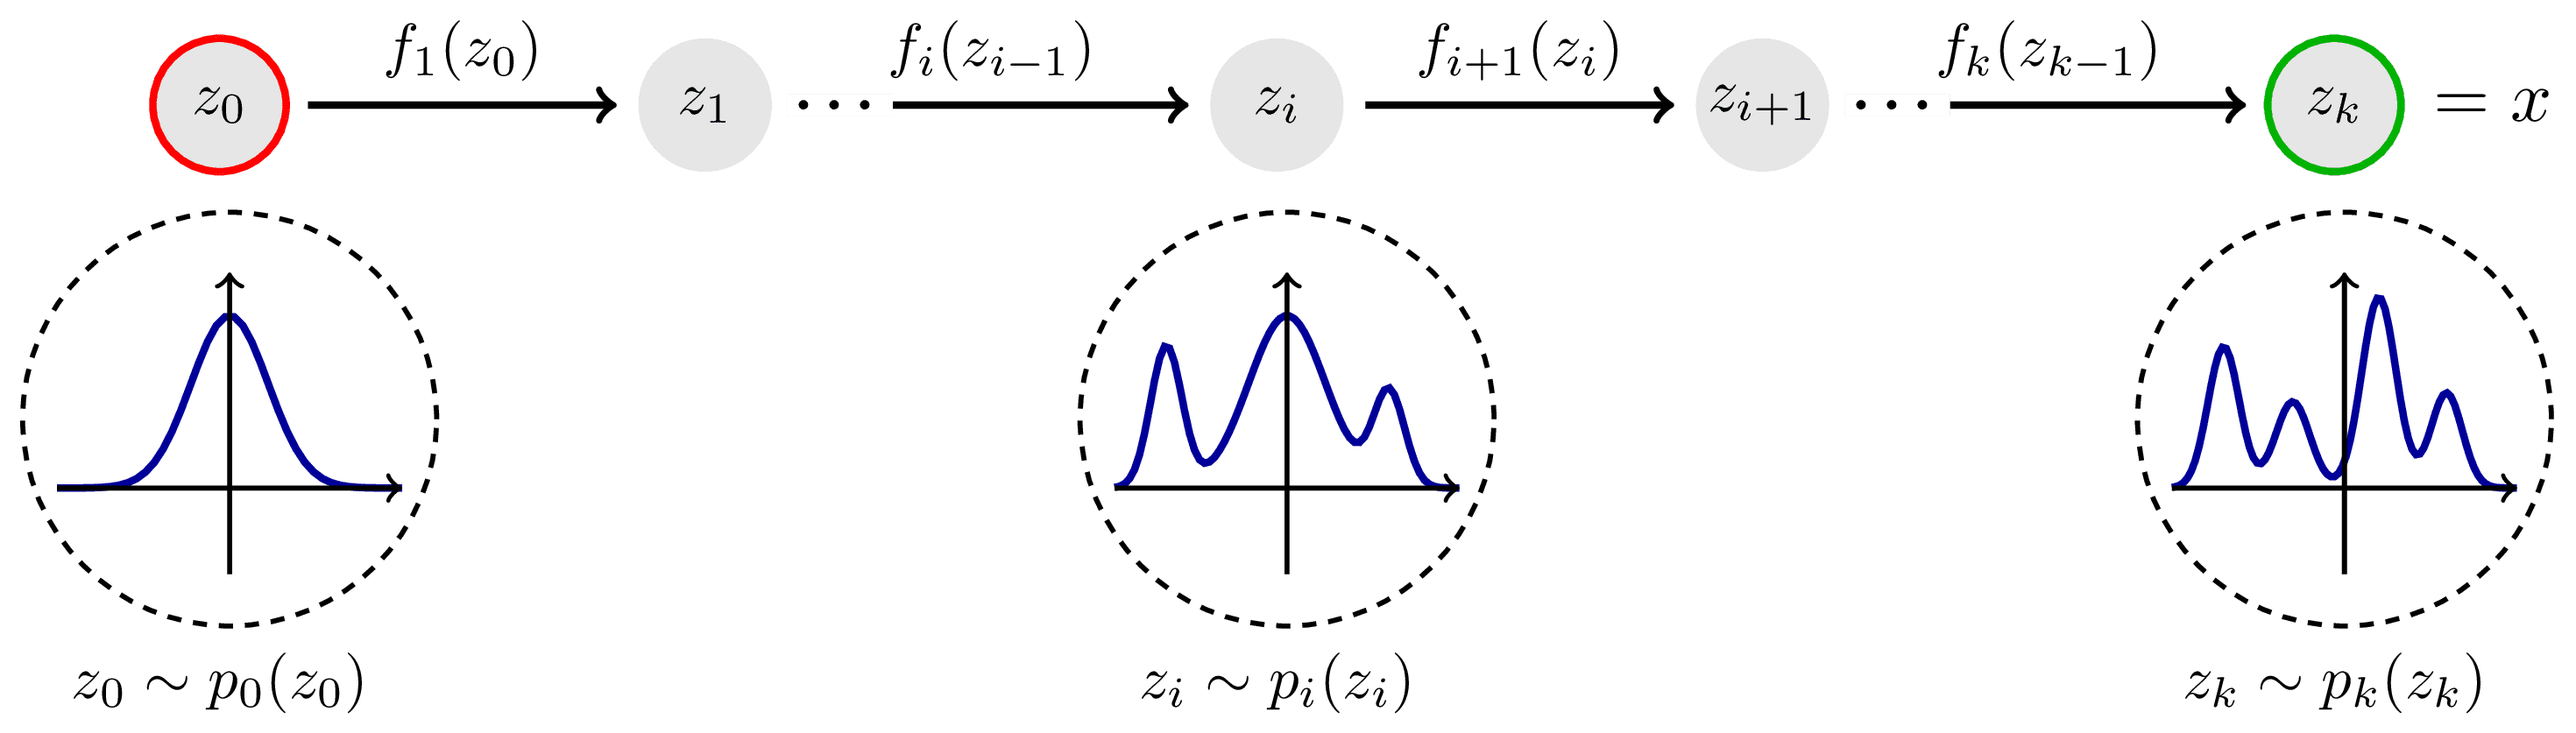
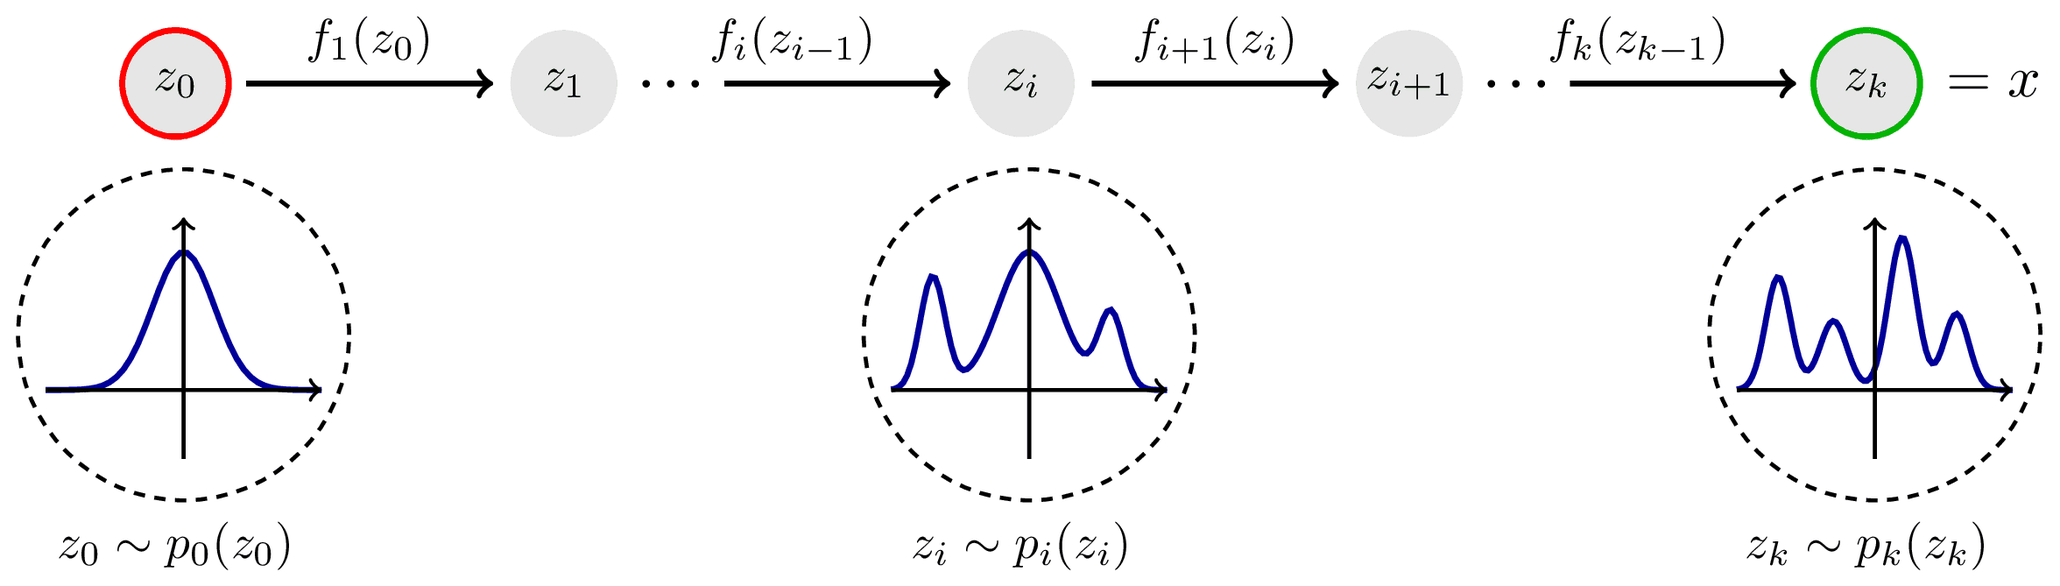
normalizing-flow.tex remove white bg behind \dots

diff --git a/assets/normalizing-flow/normalizing-flow.tex b/assets/normalizing-flow/normalizing-flow.tex
@@ -28,10 +28,10 @@
   \node[znode, right=2.5 of z1] (zi) {$z_i$};
   \node[znode, right=of zi] (zip1) {$z_{i+1}$};
   \draw[flow] (zi) -- node[above, midway] {$f_{i+1}(z_i)$} (zip1);
-  \draw[flow] (z1) -- node[fill=white, pos=0.15, inner sep=1] {\textbf\dots} node[above, midway] {$f_i(z_{i-1})$} (zi);
+  \draw[flow, shorten <=5ex] (z1) -- node[pos=0.16, inner sep=1] {\textbf\dots} node[above, midway] {$f_i(z_{i-1})$} (zi);
 
   \node[znode, draw=green!70!black, right=2.5 of zip1] (zk) {$z_k$};
-  \draw[flow] (zip1) -- node[fill=white, pos=0.15, inner sep=1] {\textbf\dots} node[above, midway] {$f_k(z_{k-1})$} (zk);
+  \draw[flow, shorten <=5ex] (zip1) -- node[pos=0.16, inner sep=1] {\textbf\dots} node[above, midway] {$f_k(z_{k-1})$} (zk);
   \node[right=0 of zk, scale=1.2] {$= x$};
   \node[outer sep=0, inner sep=0, below=0.2 of z0, label={below:$z_0 \sim p_0(z_0)$}] (f0) {\distro{1}{0}{0}};
   \node[outer sep=0, inner sep=0, below=0.2 of zi, label={below:$z_i \sim p_i(z_i)$}] (fi) {\distro[70]{1}{1}{0}};
